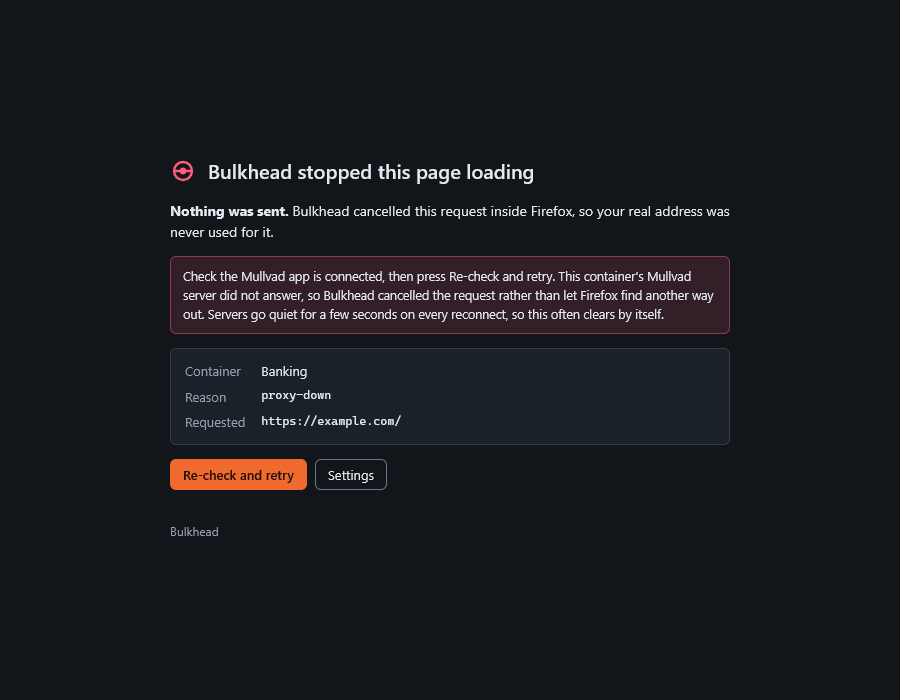
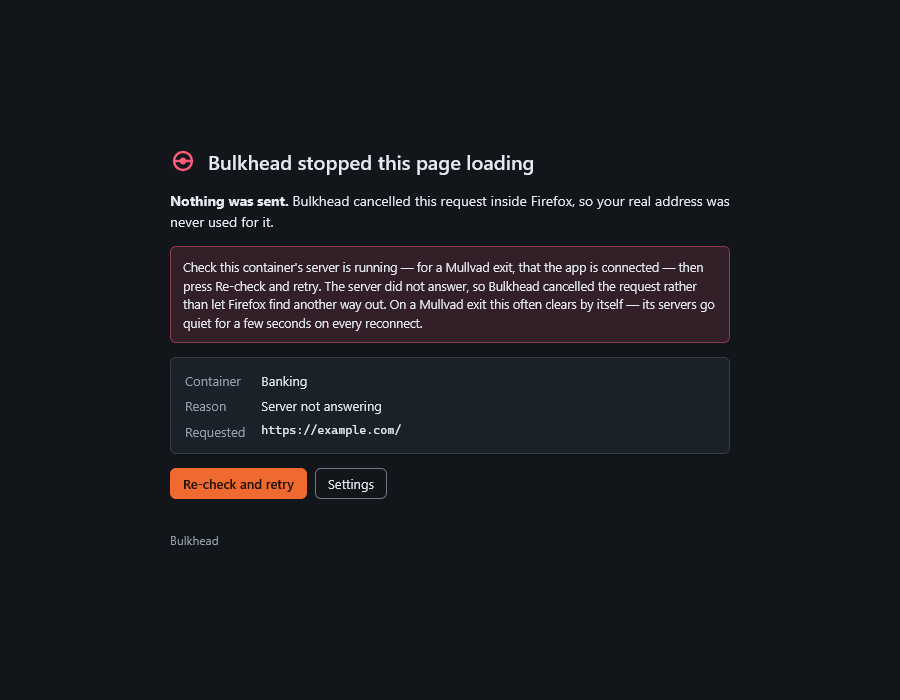
Document the new exits and refresh the screenshots

Changed region(s): [[0.1867, 0.21, 0.8089, 0.72], [0.1867, 0.75, 0.2489, 0.78]]

diff --git a/README.md b/README.md
@@ -90,6 +90,13 @@ Read this part.
   minutes and revokes the setup acknowledgement rather than leaving a stale
   tick. The reverse is not provable, so a quiet result is reported as "no DoH
   seen", never as verified off.
+- **Another extension doing its own lookups.** `dns.resolve()` is not a web
+  request: nothing in the proxy or webRequest pipeline sees it, so a lookup
+  another extension makes rides the system resolver instead of the
+  container's exit. The known case was uBlock Origin's CNAME uncloaking,
+  fixed upstream in 1.60.0 — current uBO skips its lookup for any request
+  proxied with `proxyDNS`, which Bulkhead always sets. On older uBO, untick
+  "Uncloak canonical names" in its settings, or update it.
 - **Requests before the background page is running.** Anything Firefox issues
   during early startup is seen by neither listener. `persistent: true` is the
   mitigation the platform offers and it is set.
@@ -126,6 +133,16 @@ than the one configured blocks the container as `misrouted`.
   them until you allow it, in about:addons → Bulkhead → Details → Run in
   Private Windows. Until then Bulkhead cannot gate them at all, and the
   options page says so next to the row rather than pretending otherwise.
+- Custom exits: your own SOCKS5 servers — an SSH tunnel, a server you are
+  trying out — added in settings and assigned like any relay. Same
+  killswitch, same probing; the one thing no check can vouch for is where a
+  foreign exit comes out, and the settings page says so rather than
+  pretending.
+- **Allow loopback addresses**, an opt-in bypass for sign-in flows that hand
+  a token to an app listening on 127.0.0.1. Off by default; on, the gate passes loopback and
+  nothing else. Under default preferences Firefox does not proxy these
+  addresses in the first place (`network.proxy.allow_hijacking_localhost`),
+  so the toggle opens the killswitch for them, not a new route.
 - Offline awareness: the relay list refreshes daily, servers out of service
   disappear from the picker, and if one of *your* assigned exits goes offline
   you get told, with a one-click move to the same city.
@@ -138,6 +155,13 @@ than the one configured blocks the container as `misrouted`.
   fully restored when you switch them off.
 - Per-tab toolbar badge: nothing when the exit is verified, `?` while
   checking, `!` when blocked.
+
+Bulkhead decides how a container reaches the network, not which sites open
+in which container — that is Mozilla's [Multi-Account Containers], and the
+two compose cleanly: MAC pins a site to a container, Bulkhead pins that
+container to an exit.
+
+[Multi-Account Containers]: https://addons.mozilla.org/firefox/addon/multi-account-containers/
 
 ![default context on the tunnel exit](assets/popup-default-dark.png)
 
@@ -152,9 +176,13 @@ proxy.onRequest        cookieStoreId -> SOCKS5 ProxyInfo, from an in-memory
 webRequest.onBefore    decide(state, request) -> allow | block.
                        Blocking listener; the sole authority.
 
-webRequest.onError     hard proxy errors trip health instantly; a plain
-                       timeout only schedules a probe, since a slow site is
-                       indistinguishable from a dead proxy.
+webRequest.onError     hard proxy errors trip health instantly. Errors that
+                       name no layer -- a timeout, a reset, a refusal --
+                       only schedule a probe, since a broken site produces
+                       the same ones. A probe's own failure is ignored here:
+                       it travels the target container's proxy but is issued
+                       by the background page, so the error arrives labelled
+                       with the wrong container.
 
 alarms                 probe non-up containers every 30s to recover; sweep
                        healthy ones every 10m to catch silent misroutes;
@@ -181,6 +209,14 @@ Choices worth knowing about:
   single-use random token the background is currently holding *and* targets
   the probe endpoint. A page pasting the marker into its URLs gets nothing:
   unrecognised tokens take the normal path through both listeners.
+- **A check counts only if it travelled the assigned exit.** Firefox retries
+  a refused proxy down its failover list, and with a system or PAC proxy
+  configured that retry can succeed elsewhere — a perfectly good answer from
+  the wrong route. Every attempt's `proxyInfo` is recorded, and a check that
+  did not go through the exit under test is a failure, not a pass. For a
+  Mullvad relay the exit-name comparison catches this too; for a custom exit,
+  where there is no expected name to compare against, this is the only thing
+  that does.
 - **The proxy host is the literal `10.124.x.x`**, resolved once at assignment
   time and refused if the answer is not a tunnel address. Resolving the
   hostname per request would tell your resolver which exit each container
@@ -239,7 +275,18 @@ helpers.
 `npm run test:e2e` copies `src/` to a build dir, appends a self-test to the
 background, and drives the project-local Firefox with `web-ext` on a fresh
 profile. Cases that need live relays detect the tunnel and skip without it
-(CI runs the rest headless). Verified against Firefox 154 and live relays:
+(CI runs the rest headless).
+
+The same suite runs against any build in `.cache/firefox`, so the floor in
+`strict_min_version` is a tested claim rather than a guess:
+
+```
+FIREFOX_CHANNEL=release FIREFOX_VERSION=142.0 npm run setup
+FIREFOX_BINARY=.cache/firefox/142.0-win64/core/firefox.exe npm run test:e2e
+```
+
+Verified against Firefox 142 (the declared minimum) and 154, with live
+relays, identical results on both:
 
 | case | result |
 |---|---|
@@ -251,6 +298,10 @@ profile. Cases that need live relays detect the tunnel and skip without it
 | default context on the tunnel exit, tunnel down | tabs blocked **and** the extension's own relay fetch blocked |
 | default context on the tunnel exit, tunnel up | verified against `am.i.mullvad.net`, traffic passes |
 | hardening apply / clear | takes control, then fully restores |
+| loopback from a blocked container, toggle off | blocked, reason `proxy-down` |
+| loopback from a blocked container, toggle on | reaches a local server, while everything else in that container stays blocked |
+| custom exit with nothing listening | health `down`, navigation blocked |
+| custom exit on a live SOCKS server | health `up`, reachability verified through the exit itself |
 
 There is also a manual diagnostic for the transition window itself:
 `node test/e2e/transition.mjs --failover-direct=true` pins the default
@@ -269,10 +320,10 @@ shouldn't be there.
 
 ## Roadmap
 
-Custom SOCKS5 endpoints per container, and support for other providers that
-expose in-tunnel SOCKS the way Mullvad does. The plumbing is already
-provider-shaped: an assignment is just an address, a port and an optional
-expected exit name.
+Support for other providers that expose in-tunnel SOCKS the way Mullvad
+does, and HTTP/HTTPS proxy types alongside SOCKS5 for custom exits. The
+plumbing is already provider-shaped: an assignment is just an address, a
+port and an optional expected exit name.
 
 ## Reporting a security issue
 

diff --git a/SECURITY.md b/SECURITY.md
@@ -22,6 +22,9 @@ Concretely:
 - Making `proxy.onRequest` return `direct`, or an unusable `ProxyInfo`, for a
   context that has an exit assigned.
 - Traffic from one container leaving via another container's exit.
+- A health check that is credited to an exit which did not carry it — a
+  reply obtained through a system proxy, a failover hop or a direct
+  connection counting as proof that the assigned exit is working.
 - Any way a web page can reach the extension's message handlers, read stored
   assignments, or change settings.
 - A DNS lookup for a relay hostname escaping the tunnel.
@@ -38,6 +41,11 @@ signs releases.
   though a report that makes one of them *worse than documented* is.
 - Anything requiring an already-compromised browser profile or physical
   access to an unlocked machine.
+- What a custom exit does with the traffic you send it. Adding one is a
+  decision to trust that server; the extension can prove a check went
+  through it, never where it comes out afterwards. Its credentials are
+  stored unencrypted in the profile, like every other extension's settings,
+  and SOCKS5 sends them in the clear by design.
 - Mullvad's own infrastructure. Report that to Mullvad.
 
 ## Verifying a report yourself
